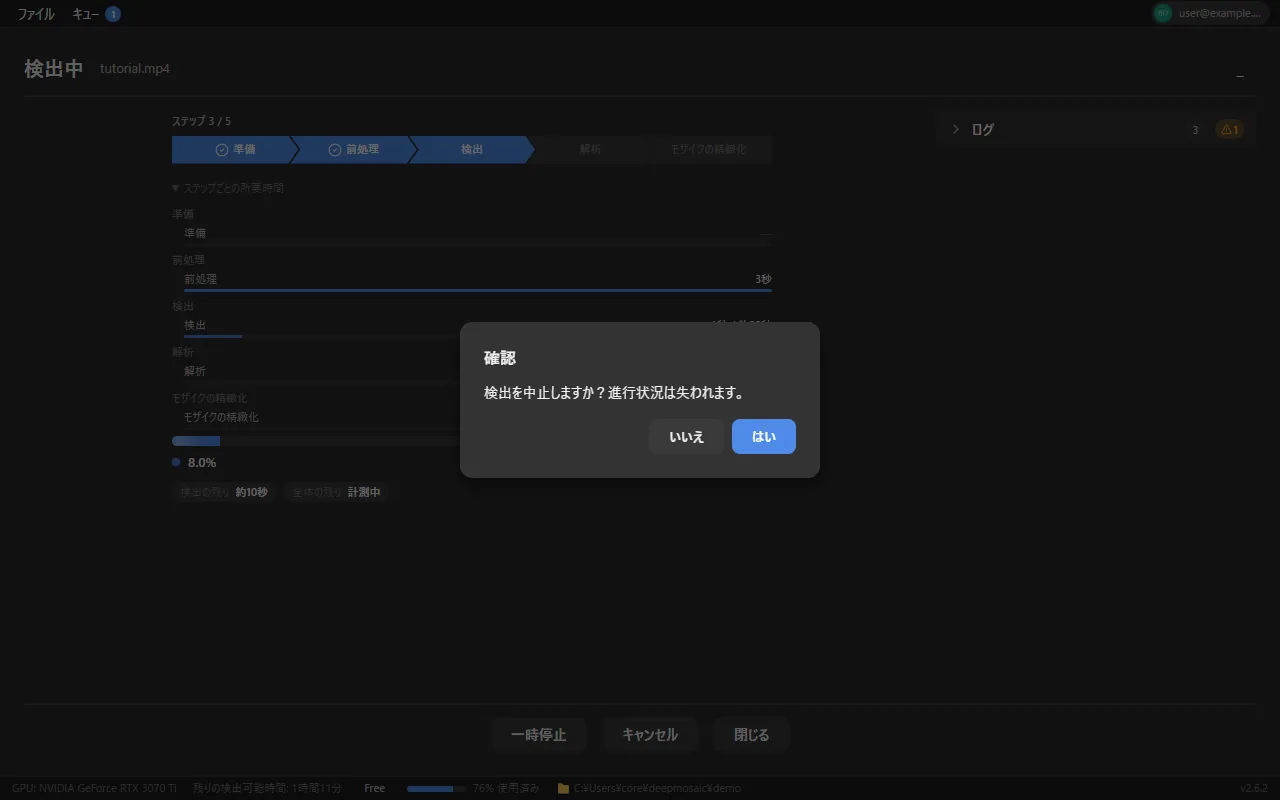
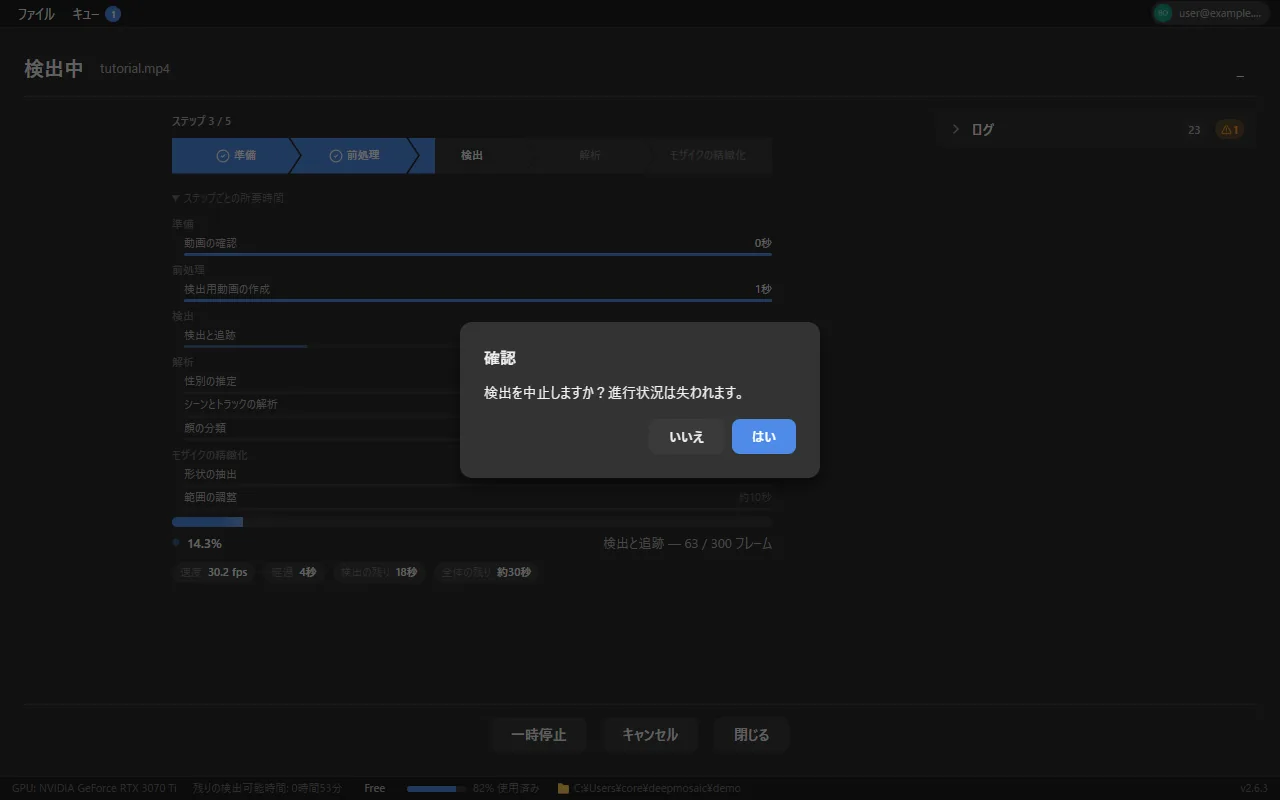
docs: T-816 検出画面の画像 2 枚を撮り直し (経過の表示 / ステップの内訳 8 行 / 矢羽の余白と実行中の段の色づけ = desktop 2.6.3)、進捗の見方に「経過」とステップ表示の色の説明を追記
Claude-Session: https://claude.ai/code/session_01G7EvLP9i6nSytGG6vSEoDj

diff --git a/_includes/docs/03-detect.html b/_includes/docs/03-detect.html
@@ -192,7 +192,7 @@ batch / queue は TICKET-SITE-44 で追加。定義表は `.kv` 部品 (src/app.
     <div class="kv my-3.5" style="--kv-label-w: 200px">
       <div class="kv-row">
         <div class="kv-key">進捗の見方</div>
-        <div class="kv-val">進捗バーは検出全体の割合です。その下に現在のステップ名、処理中のフレーム数、速度（fps）、「〇〇の残り」（そのステップの残り時間の目安）が並びます。残り時間が出ないステップもあります。「モザイクの精緻化」の段は、対象の枠があるフレームだけを数えて「n / N 対象フレーム」と表示し、全体の進捗もこの段に多くの割合を割り当てて、実際の所要時間に近い速さで進みます</div>
+        <div class="kv-val">上部のステップ表示は、完了した段が全面、実行中の段は進み具合のところまで色が付きます。進捗バーは検出全体の割合です。その下に現在のステップ名、処理中のフレーム数、速度（fps）、「経過」（検出を始めてからの時間）、「〇〇の残り」（そのステップの残り時間の目安）、「全体の残り」が並びます。残り時間が出ないステップもあります。「モザイクの精緻化」の段は、対象の枠があるフレームだけを数えて「n / N 対象フレーム」と表示し、全体の進捗もこの段に多くの割合を割り当てて、実際の所要時間に近い速さで進みます</div>
       </div>
       <div class="kv-row kv-alt">
         <div class="kv-key">一時停止 / 再開</div>
